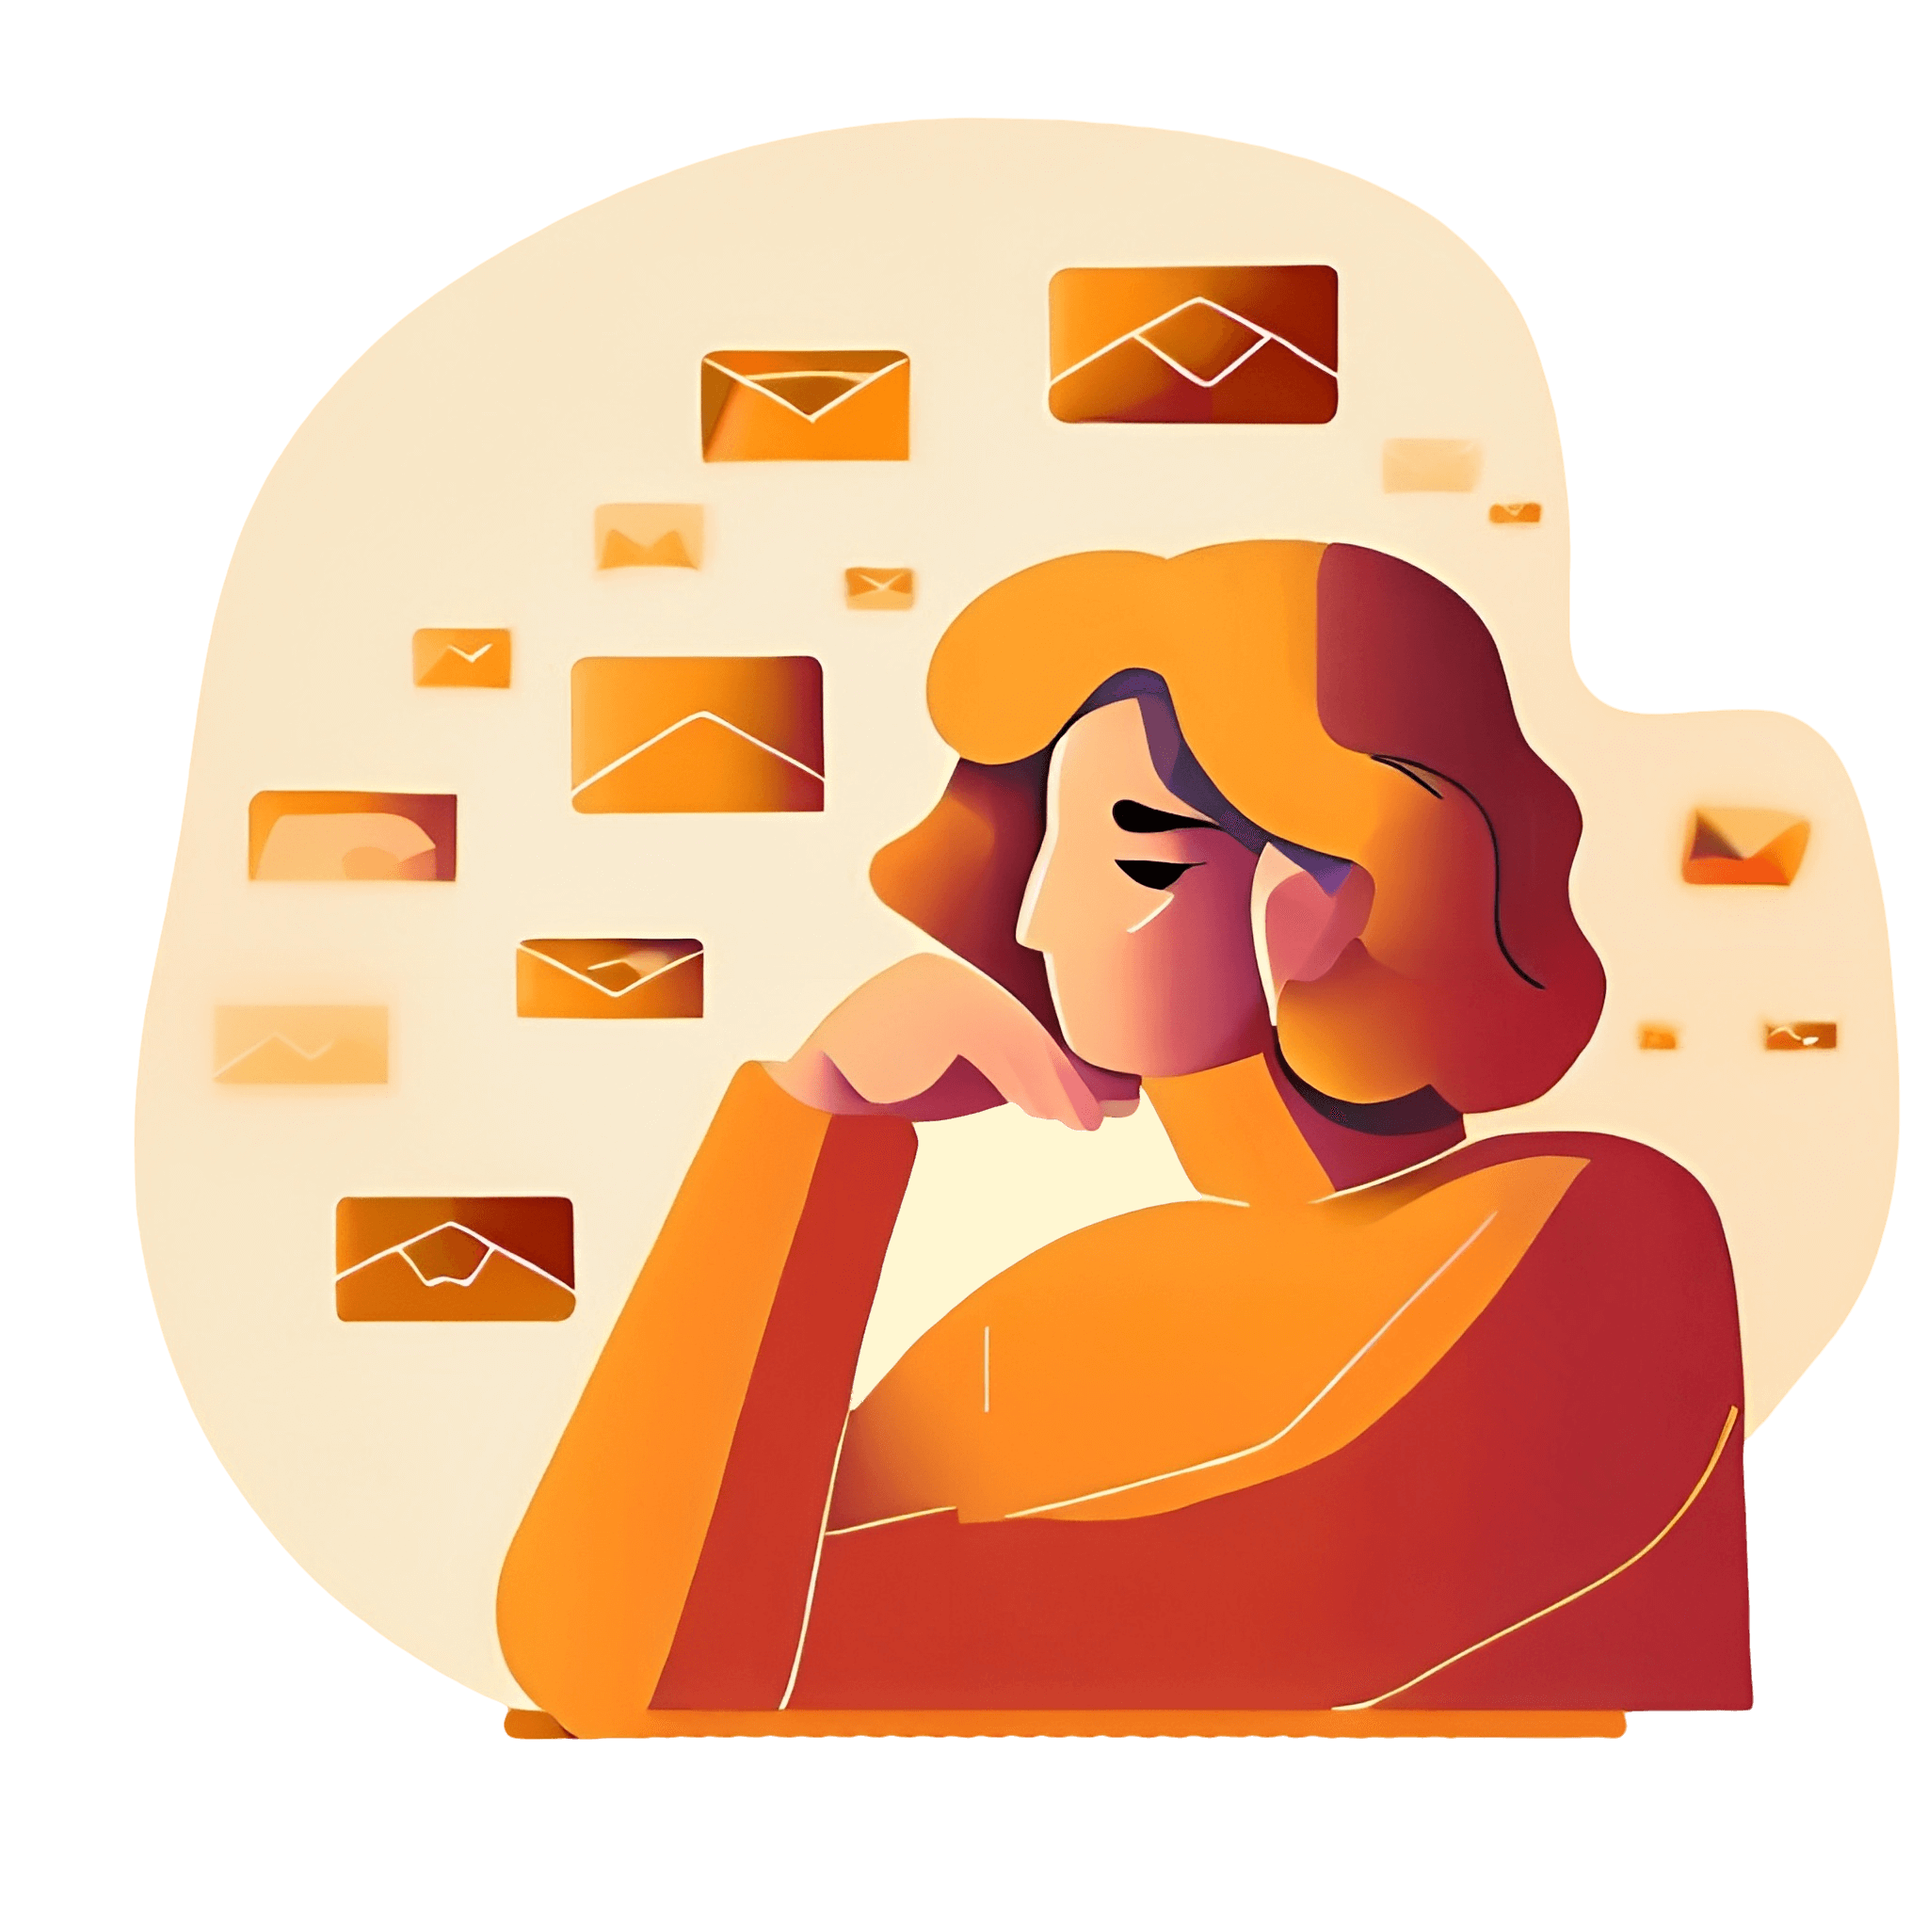
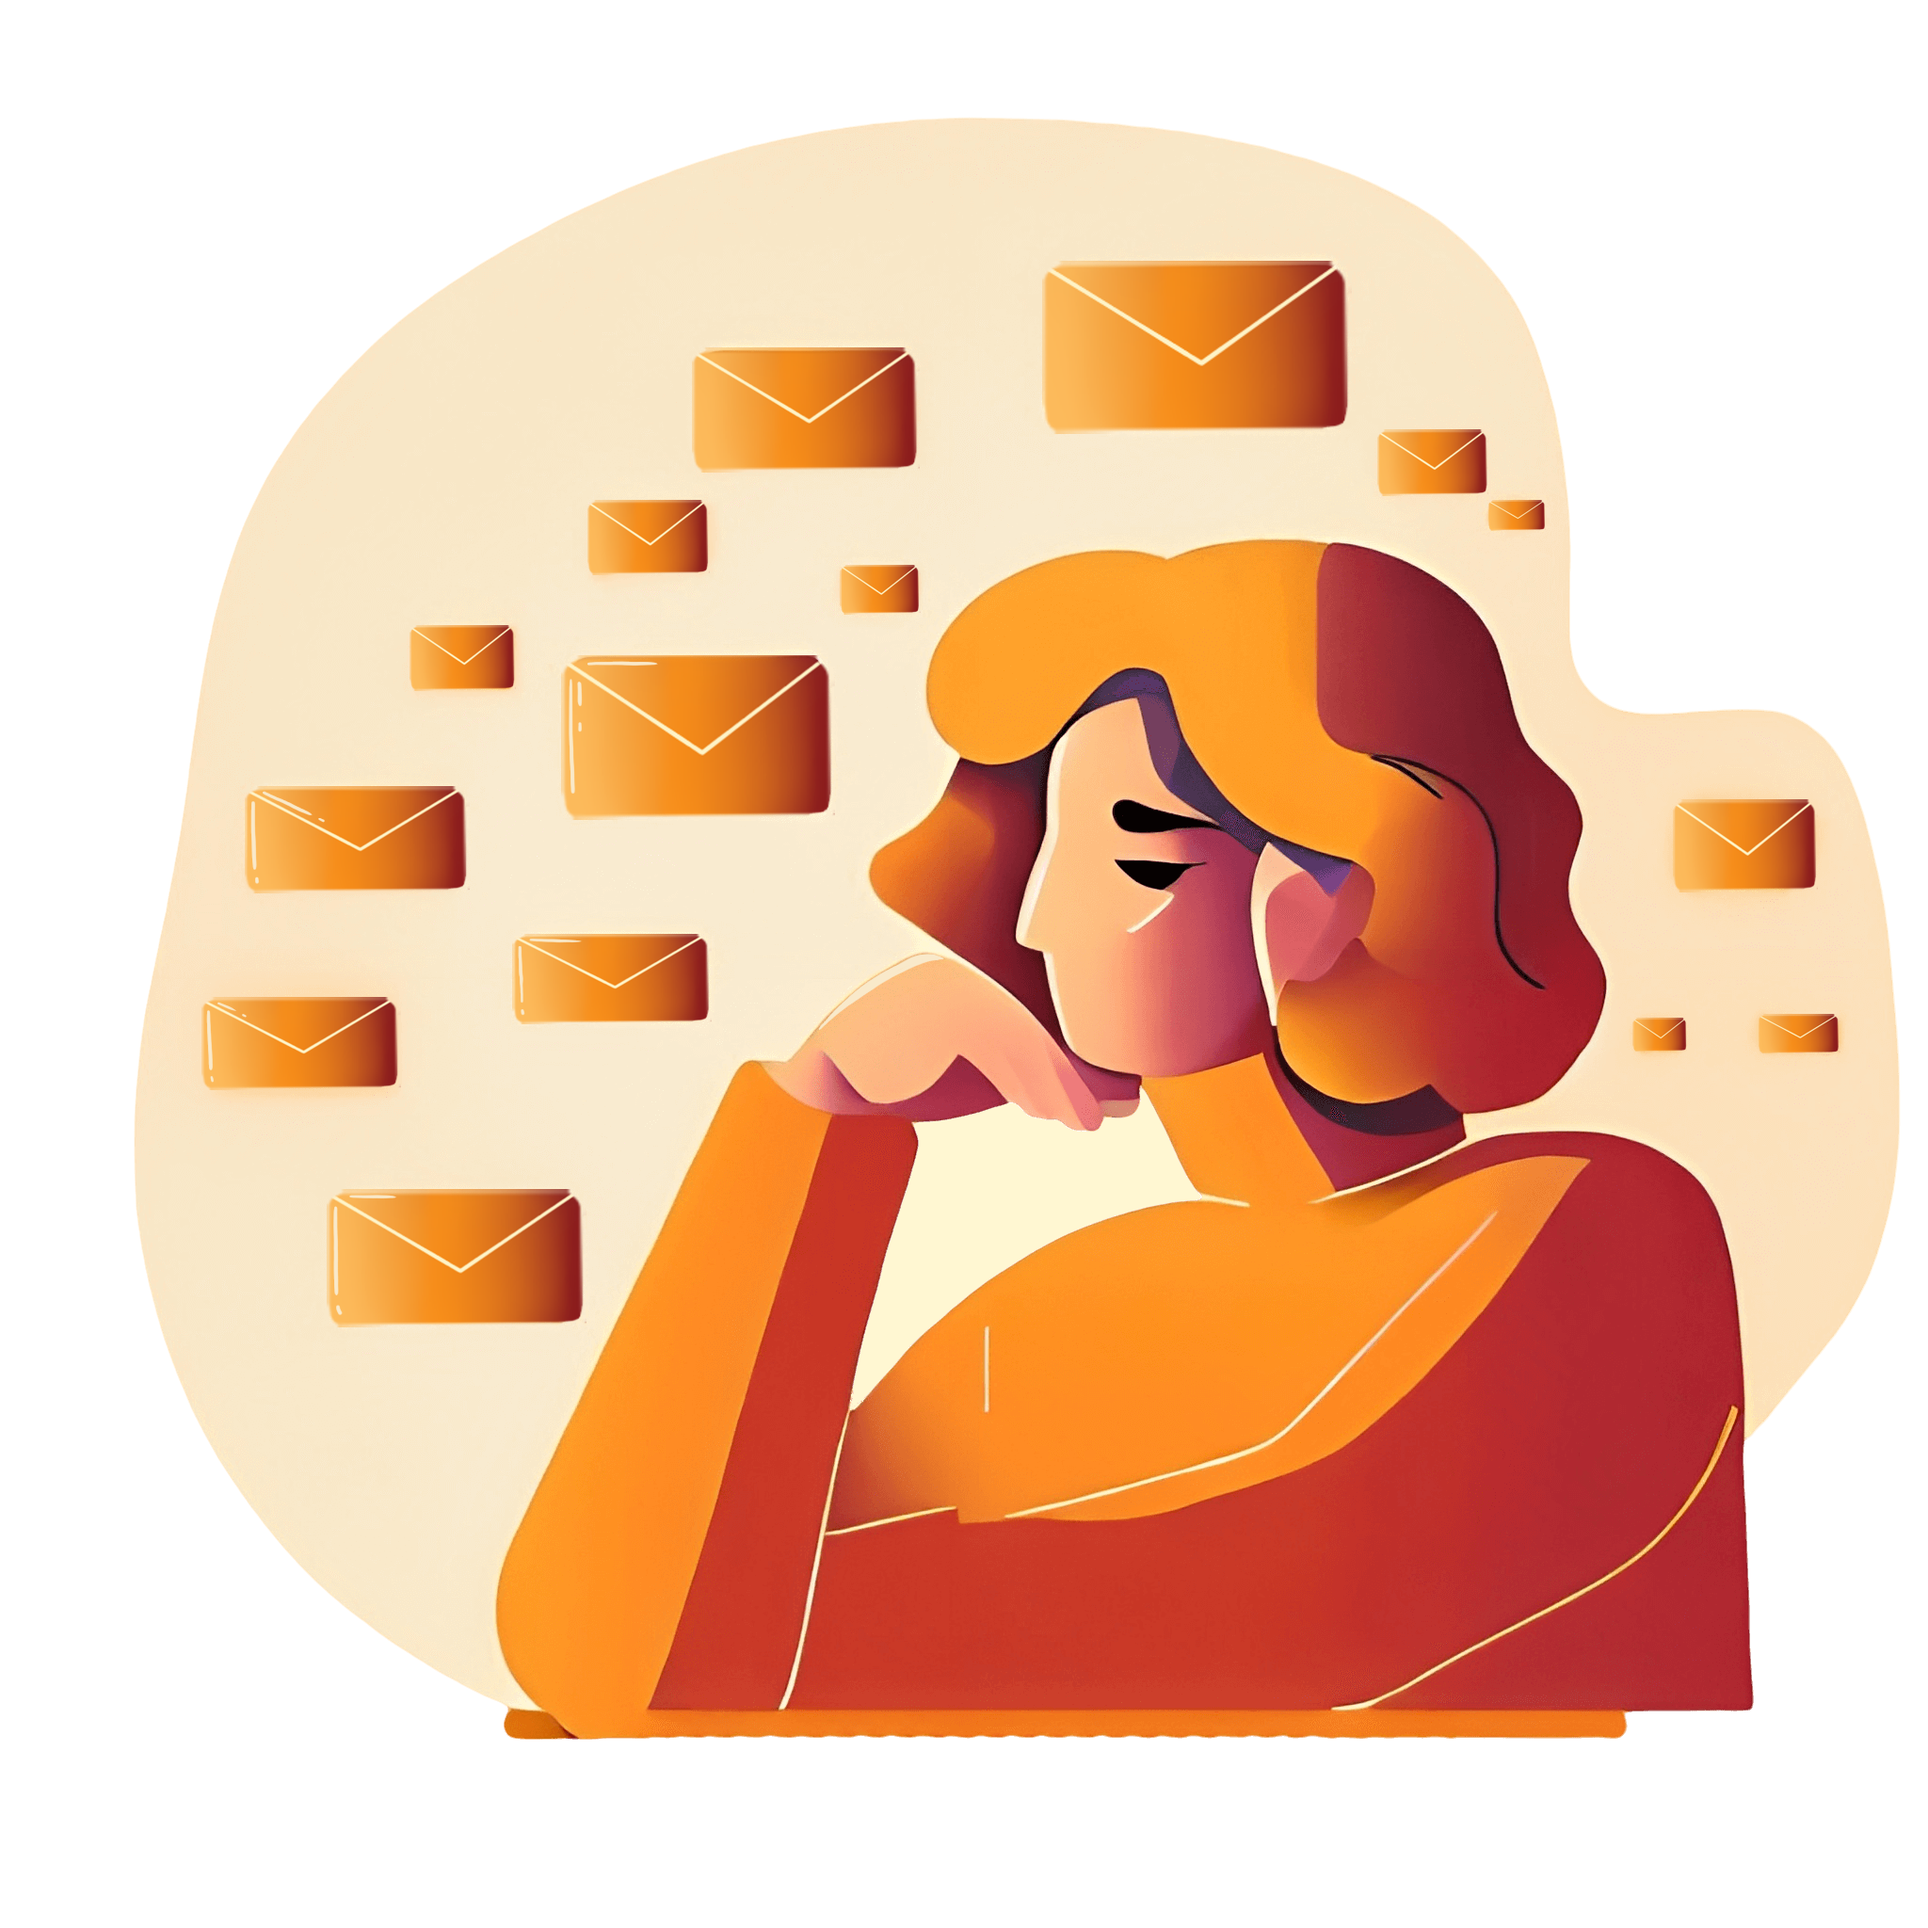
Hover demo text, changed hero image, began on more info panel

diff --git a/src/components/simulation/SimulationPanel.js b/src/components/simulation/SimulationPanel.js
@@ -1,8 +1,10 @@
 import React, { useState } from "react";
 import "./SimulationPanel.css";
+import MoreInfo from "./MoreInfo";
 
 import GiveUp from "../images/simulationIconsSmaller/giveup.svg";
 import Report from "../images/simulationIconsSmaller/report.svg";
+import MarkReport from "../images/simulationIconsSmaller/markReport.svg";
 import Delete from "../images/simulationIconsSmaller/delete.svg";
 import Reply from "../images/simulationIconsSmaller/reply.svg";
 import Forward from "../images/simulationIconsSmaller/forward.svg";
@@ -13,21 +15,37 @@ import ProfilePic from "../images/simulationIconsSmaller/profilePic.svg";
 
 const SimulationPanel = (props) => {
   const [flagged, setFlagged] = useState(false);
+  const [marked, setMarked] = useState(false);
+  const [legitMarked, setLegitMarked] = useState(false);
+  const [maliciousMarked, setMaliciousMarked] = useState(false);
+
   const [legitimateColor, setLegitimateColor] = useState("#f5f5f5");
   const [maliciousColor, setMaliciousColor] = useState("#f5f5f5");
 
   const displayText = props.EmailDisplay;
+
+  const moreClick = () => {
+    return <MoreInfo />;
+  };
+
+  const markClick = () => {
+    setMarked(!marked);
+  };
 
   const flagClick = () => {
     setFlagged(!flagged);
   };
 
   const legitimateClick = () => {
+    setMaliciousMarked(false);
+    setLegitMarked(true);
     setMaliciousColor("#f5f5f5");
     setLegitimateColor("#1ED44B");
   };
 
   const maliciousClick = () => {
+    setLegitMarked(false);
+    setMaliciousMarked(true);
     setLegitimateColor("#f5f5f5");
     setMaliciousColor("#DE2626");
   };
@@ -38,6 +56,7 @@ const SimulationPanel = (props) => {
           <div className="icon done-button">
             <button className="giveup-click">
               <img src={GiveUp} alt="GiveUp" />
+              <span className="tooltiptext-giveup">Mark as finished</span>
             </button>
           </div>
           <div className="small-line"></div>
@@ -50,6 +69,9 @@ const SimulationPanel = (props) => {
               >
                 <path d="M256 512A256 256 0 1 0 256 0a256 256 0 1 0 0 512zM369 209L241 337c-9.4 9.4-24.6 9.4-33.9 0l-64-64c-9.4-9.4-9.4-24.6 0-33.9s24.6-9.4 33.9 0l47 47L335 175c9.4-9.4 24.6-9.4 33.9 0s9.4 24.6 0 33.9z" />
               </svg>
+              <span className="tooltiptext-legitimate">
+                {legitMarked ? "Marked as legitimate" : "Mark as legitimate"}
+              </span>
             </button>
           </div>
           <div className="icon markbad-phishing-button">
@@ -61,17 +83,24 @@ const SimulationPanel = (props) => {
               >
                 <path d="M256 512A256 256 0 1 0 256 0a256 256 0 1 0 0 512zM175 175c9.4-9.4 24.6-9.4 33.9 0l47 47 47-47c9.4-9.4 24.6-9.4 33.9 0s9.4 24.6 0 33.9l-47 47 47 47c9.4 9.4 9.4 24.6 0 33.9s-24.6 9.4-33.9 0l-47-47-47 47c-9.4 9.4-24.6 9.4-33.9 0s-9.4-24.6 0-33.9l47-47-47-47c-9.4-9.4-9.4-24.6 0-33.9z" />
               </svg>
+              <span className="tooltiptext-malicious">
+                {maliciousMarked ? "Marked as malicious" : "Mark as malicious"}
+              </span>
             </button>
           </div>
           <div className="small-line"></div>
           <div className="icon report-phishing-button">
-            <button className="report-click">
-              <img src={Report} alt="Report" />
+            <button onClick={markClick} className="report-click">
+              <img src={marked ? Report : MarkReport} alt="Report" />
+              <span className="tooltiptext-report">
+                {marked ? "Marked as spam" : "Mark as spam"}
+              </span>
             </button>
           </div>
           <div className="icon delete-button">
             <button className="delete-click">
               <img src={Delete} alt="Delete" />
+              <span className="tooltiptext-delete">Delete</span>
             </button>
           </div>
 
@@ -79,11 +108,13 @@ const SimulationPanel = (props) => {
           <div className="icon reply-button">
             <button className="reply-click">
               <img src={Reply} alt="Reply" />
+              <span className="tooltiptext-reply">Reply</span>
             </button>
           </div>
           <div className="icon forward-button">
             <button className="forward-click">
               <img src={Forward} alt="Forward" />
+              <span className="tooltiptext-forward">Forward</span>
             </button>
           </div>
         </div>
@@ -112,11 +143,15 @@ const SimulationPanel = (props) => {
             <div className="icon flag-button">
               <button onClick={flagClick} className="flag-click">
                 <img src={flagged ? DarkFlag : LightFlag} alt="Flag" />
+                <span className="tooltiptext-flag">
+                  {flagged ? "Flagged" : "Flag it"}
+                </span>
               </button>
             </div>
             <div className="icon more-actions-button">
-              <button className="more-click">
+              <button className="more-click" onClick={moreClick}>
                 <img src={More} alt="Show more" />
+                <span className="tooltiptext-more">More information</span>
               </button>
             </div>
           </div>
@@ -125,11 +160,13 @@ const SimulationPanel = (props) => {
           <div className="reply-button">
             <button className="reply-click bottom">
               <img src={Reply} alt="Reply" className="reply-icon-down" />
+              <span className="tooltiptext-reply">Reply</span>
             </button>
           </div>
           <div className="forward-button">
             <button className="forward-click bottom">
               <img src={Forward} alt="Forward" />
+              <span className="tooltiptext-forward">Forward</span>
             </button>
           </div>
         </div>

diff --git a/src/components/simulation/SimulationPanel.css b/src/components/simulation/SimulationPanel.css
@@ -60,8 +60,8 @@
 .icon img,
 .icon svg,
 .profile-icon {
-  width: 3vw;
-  height: 3vh;
+  width: calc(25px + 0.390625vw);
+  height: calc(25px + 0.390625vh);
 }
 
 .small-line {
@@ -73,7 +73,7 @@
 .flag-click {
   border-radius: 50%;
   padding: 10px;
-  background: whitesmoke;
+  background: #f5f5f5;
 }
 
 .flag-click:hover,
@@ -99,7 +99,7 @@
   height: 40px;
   border-radius: 50%;
   padding: 5px;
-  background: rgba(24, 24, 24, 0.1);
+  background: #1818181a;
   display: flex;
   align-items: center;
   justify-content: center;
@@ -119,6 +119,68 @@
 .forward-click:hover {
   background-color: rgba(189, 189, 189, 0.2);
   transition: background-color 0.3s ease;
+}
+
+.flag-click,
+.more-click {
+  display: flex;
+  flex-direction: column;
+  justify-content: center;
+}
+
+.flag-click .tooltiptext-flag,
+.more-click .tooltiptext-more {
+  visibility: hidden;
+  background-color: black;
+  color: #fff;
+  text-align: center;
+  border-radius: 6px;
+  padding: 15px;
+  font-size: calc(8px + 0.390625vw);
+  font-weight: bold;
+  margin-top: 85px;
+
+  /* Position the tooltip */
+  position: absolute;
+  z-index: 1;
+  width: fit-content;
+  height: fit-content;
+}
+
+.giveup-click .tooltiptext-giveup,
+.legitimate-click .tooltiptext-legitimate,
+.malicious-click .tooltiptext-malicious,
+.report-click .tooltiptext-report,
+.delete-click .tooltiptext-delete,
+.reply-click .tooltiptext-reply,
+.forward-click .tooltiptext-forward {
+  visibility: hidden;
+  background-color: black;
+  color: #fff;
+  text-align: center;
+  border-radius: 6px;
+  padding: 15px;
+  font-size: calc(8px + 0.390625vw);
+  font-weight: bold;
+  margin-top: 75px;
+
+  /* Position the tooltip */
+  position: absolute;
+  z-index: 1;
+  width: fit-content;
+  height: fit-content;
+}
+
+.giveup-click:hover .tooltiptext-giveup,
+.legitimate-click:hover .tooltiptext-legitimate,
+.malicious-click:hover .tooltiptext-malicious,
+.report-click:hover .tooltiptext-report,
+.delete-click:hover .tooltiptext-delete,
+.reply-click:hover .tooltiptext-reply,
+.forward-click:hover .tooltiptext-forward,
+.flag-click:hover .tooltiptext-flag,
+.more-click:hover .tooltiptext-more {
+  visibility: visible;
 }
 
 .giveup-click {

diff --git a/src/components/simulation/MoreInfo.js b/src/components/simulation/MoreInfo.js
@@ -1,0 +1,7 @@
+import React from "react";
+
+const MoreInfo = () => {
+  return <div>MoreInfo</div>;
+};
+
+export default MoreInfo;
